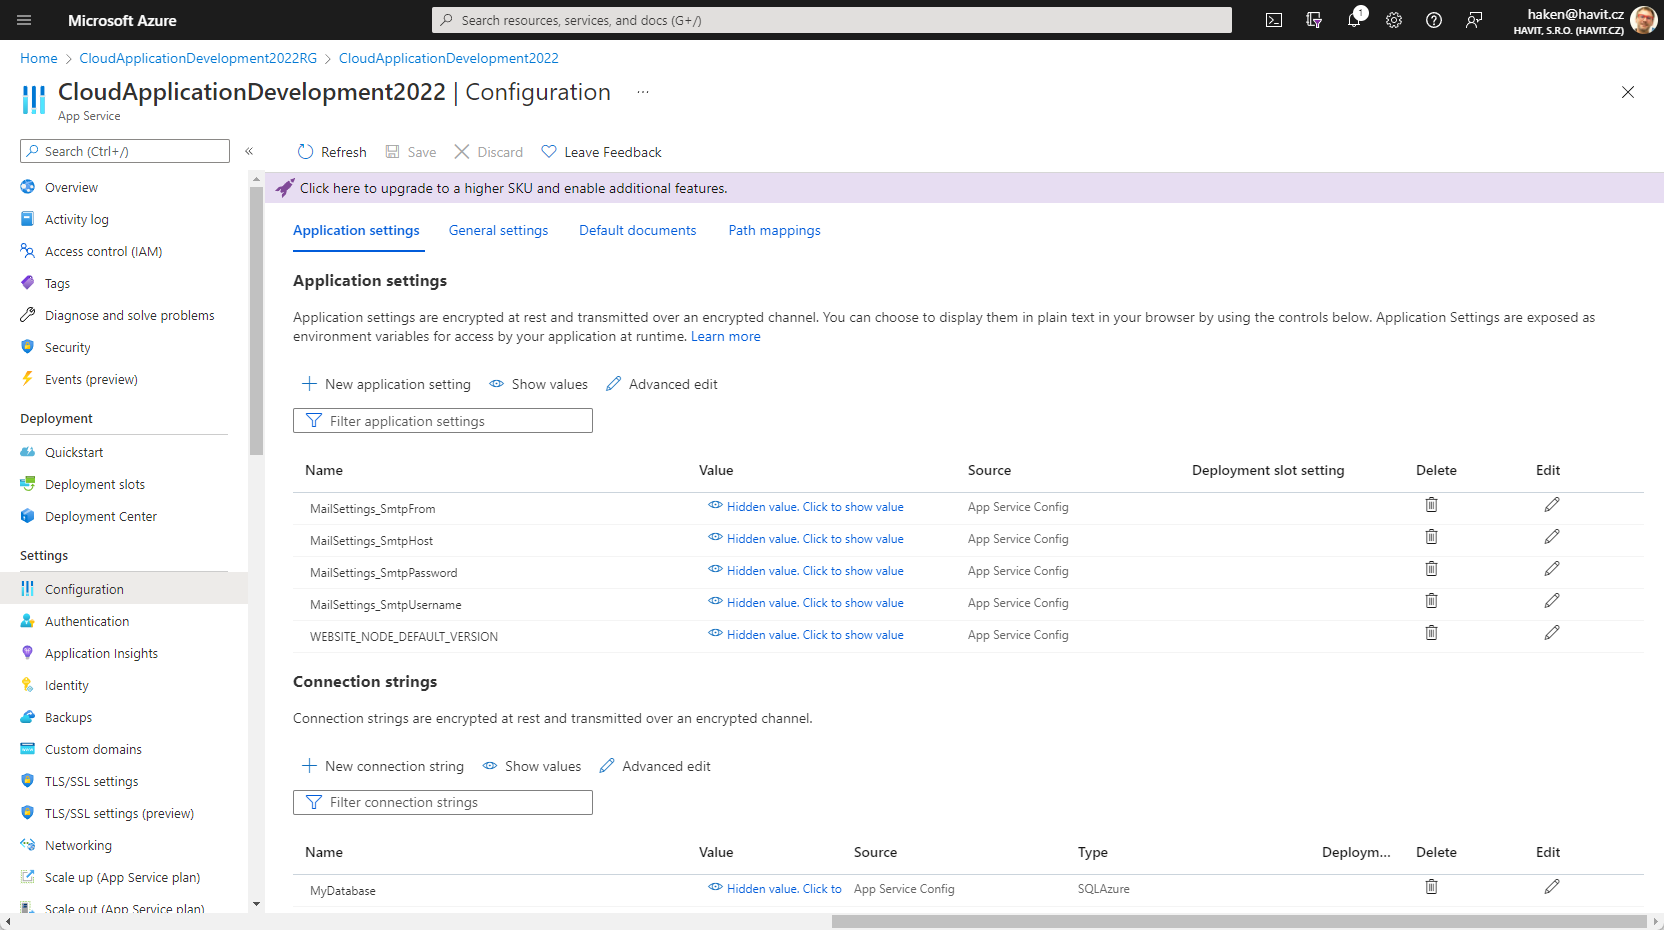
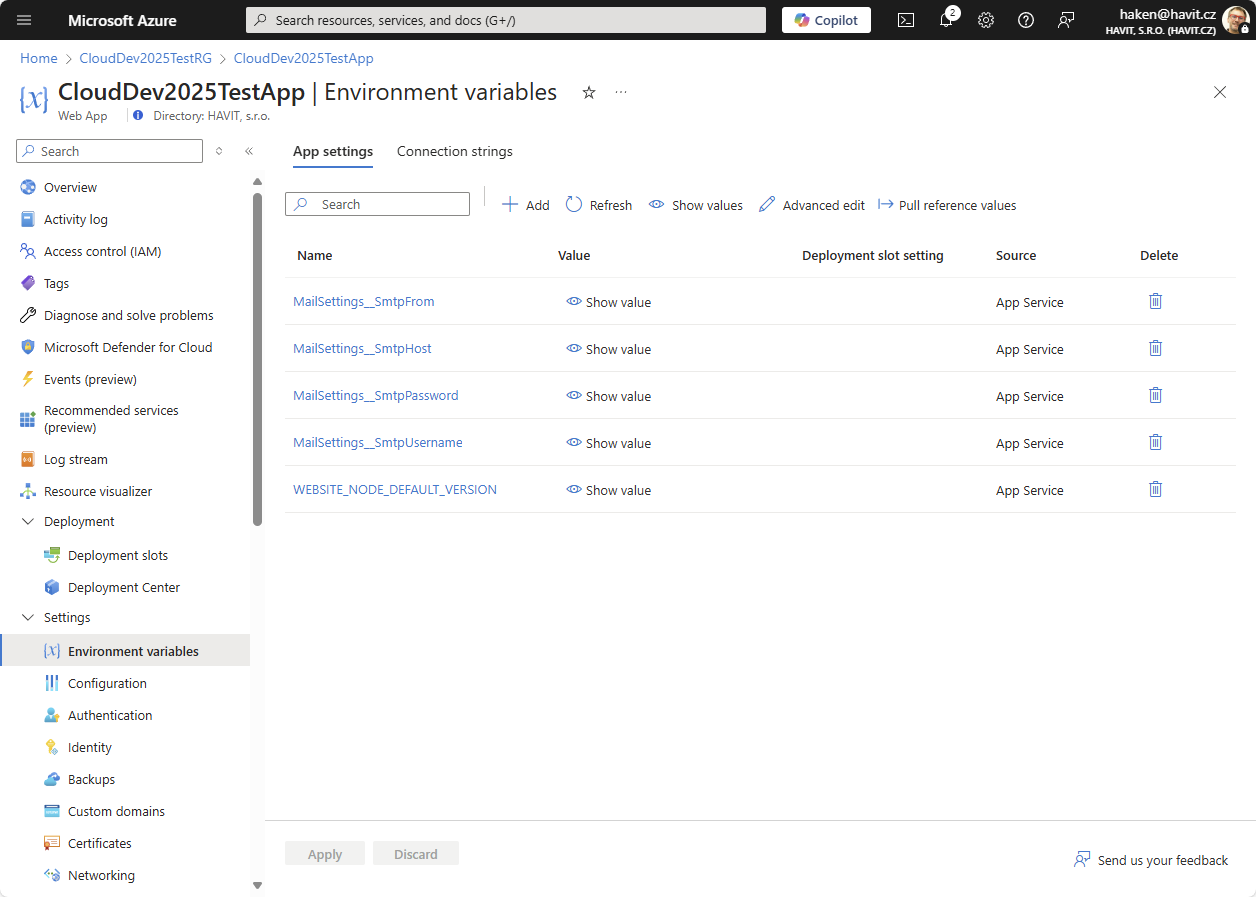
Lab2 update

diff --git a/Lab2-AzureSQL/README.md b/Lab2-AzureSQL/README.md
@@ -162,6 +162,8 @@ public class Worker : IHostedService, IDisposable
 
 Výše uvedený kód je psán formou čisté konzolové aplikace (s využitím `IHost`). Prostuduj možnosti využití Azure WebJobs SDK: https://docs.microsoft.com/en-us/azure/app-service/webjobs-sdk-how-to
 
+
+
 ## Konfigurace
 Zdrojové kódy WebJobu se odkazují na konfigurační volby, které potřebujeme aplikaci poskytnout.
 
@@ -179,17 +181,24 @@ Zdrojové kódy WebJobu se odkazují na konfigurační volby, které potřebujem
 		}
 	}
    ```
-2. Abychom nemuseli produkční konfiguraci udržovat v repozitáři zdrojových kódů nebo jinak zařizovat při nasazování (např. skrze `appSettings.Production.json`), využijeme možnost injectování konfigurace přímo v Azure App Service v sekci *Configuration* (první záložka *Application Settings*):
+2. Abychom nemuseli produkční konfiguraci udržovat v repozitáři zdrojových kódů nebo jinak zařizovat při nasazování (např. skrze `appSettings.Production.json`), využijeme možnost injectování konfigurace přímo v Azure App Service v sekci *Environment Variables* (první záložka *App Settings* i druhá záložka *Connection strings*). Pro zanořování v objektové hierarchii konfigurace se zde používá oddělovač `__` (dvě podtržítka):
 	![09 Azure App Service Configuration](img/09-AzureAppService-Configuration.png)
 
 	Na některé z pozdějších lekcí uvidíte ještě možnosti služby *Azure Key Vault*, která slouží k bezpečnému uchovávání secrets pro aplikace.
+	
+	[Pro odesílání e-mailů z Azure můžete využít službu *SendGrid*](https://www.twilio.com/docs/sendgrid/for-developers/partners/microsoft-azure-2021), aktuálně lze založit `Free` variantu s limitem 100 e-mailů denně.
+	
+	
 
 ## Publish
 1. Nyní můžeme WebJob vypublikovat (pravým tlačítkem na project v *Solution Exploreru*, volba *Publish*).
 2. WebJob si můžeme zkontrolovat v Azure Portal v cílové Azure App Service, v sekci WebJobs:
 	![10 Azure App Service Web Jobs](img/10-AzureAppService-WebJobs.png)
 
+
+
 ## Test funkčnosti
+
 1. Pro vložení testovacího záznamu do DB můžeme použít Query Exploreru v Azure Portale, který je u Azure SQL Database k dispozici:
 	![11 Azur S Q L Query Explorer](img/11-AzureSQL-QueryExplorer.png)
 2. Za pozozrnost stojí volba *Logs*, kde si můžete prohlížet konzolový výstup (stdout) WebJob aplikace.
